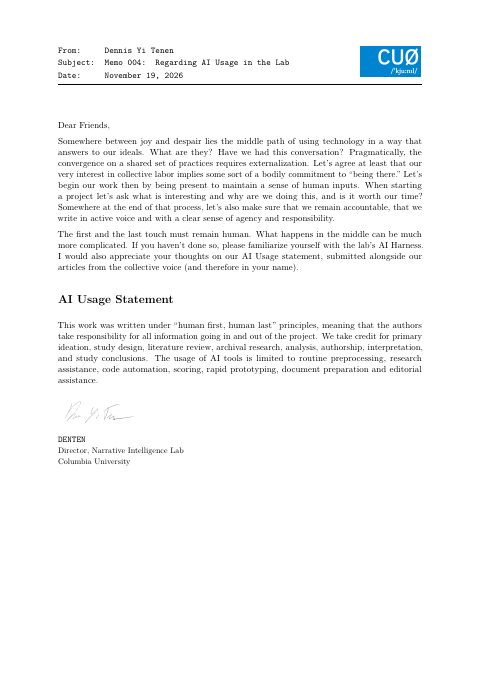
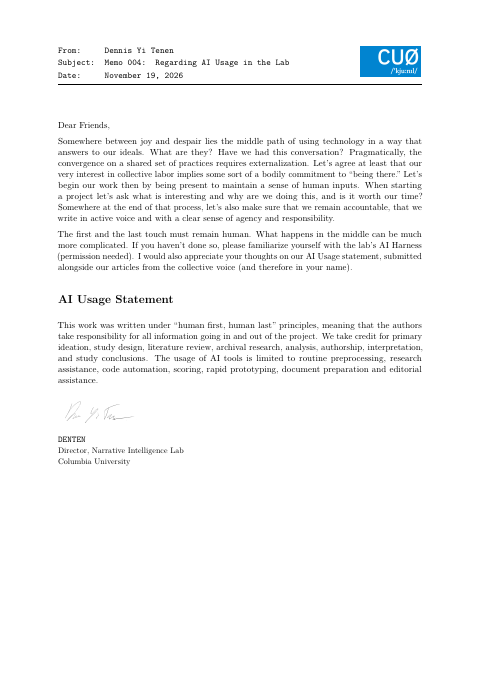
memo 004: note that the AI Harness needs permission

Changed region(s): [[0.125, 0.3402, 0.875, 0.4021]]

diff --git a/collections/_memos/4-ai-usage.md b/collections/_memos/4-ai-usage.md
@@ -31,7 +31,7 @@ time? Somewhere at the end of that process, let's also make sure that we remain 
 that we write in active voice and with a clear sense of agency and responsibility.
 
 The first and the last touch must remain human. What happens in the middle can be much more
-complicated. If you haven't done so, please familiarize yourself with the lab's AI Harness. I would also appreciate your thoughts
+complicated. If you haven't done so, please familiarize yourself with the lab's AI Harness (permission needed). I would also appreciate your thoughts
 on our AI Usage statement, submitted alongside our articles from the collective voice (and
 therefore in your name).
 
